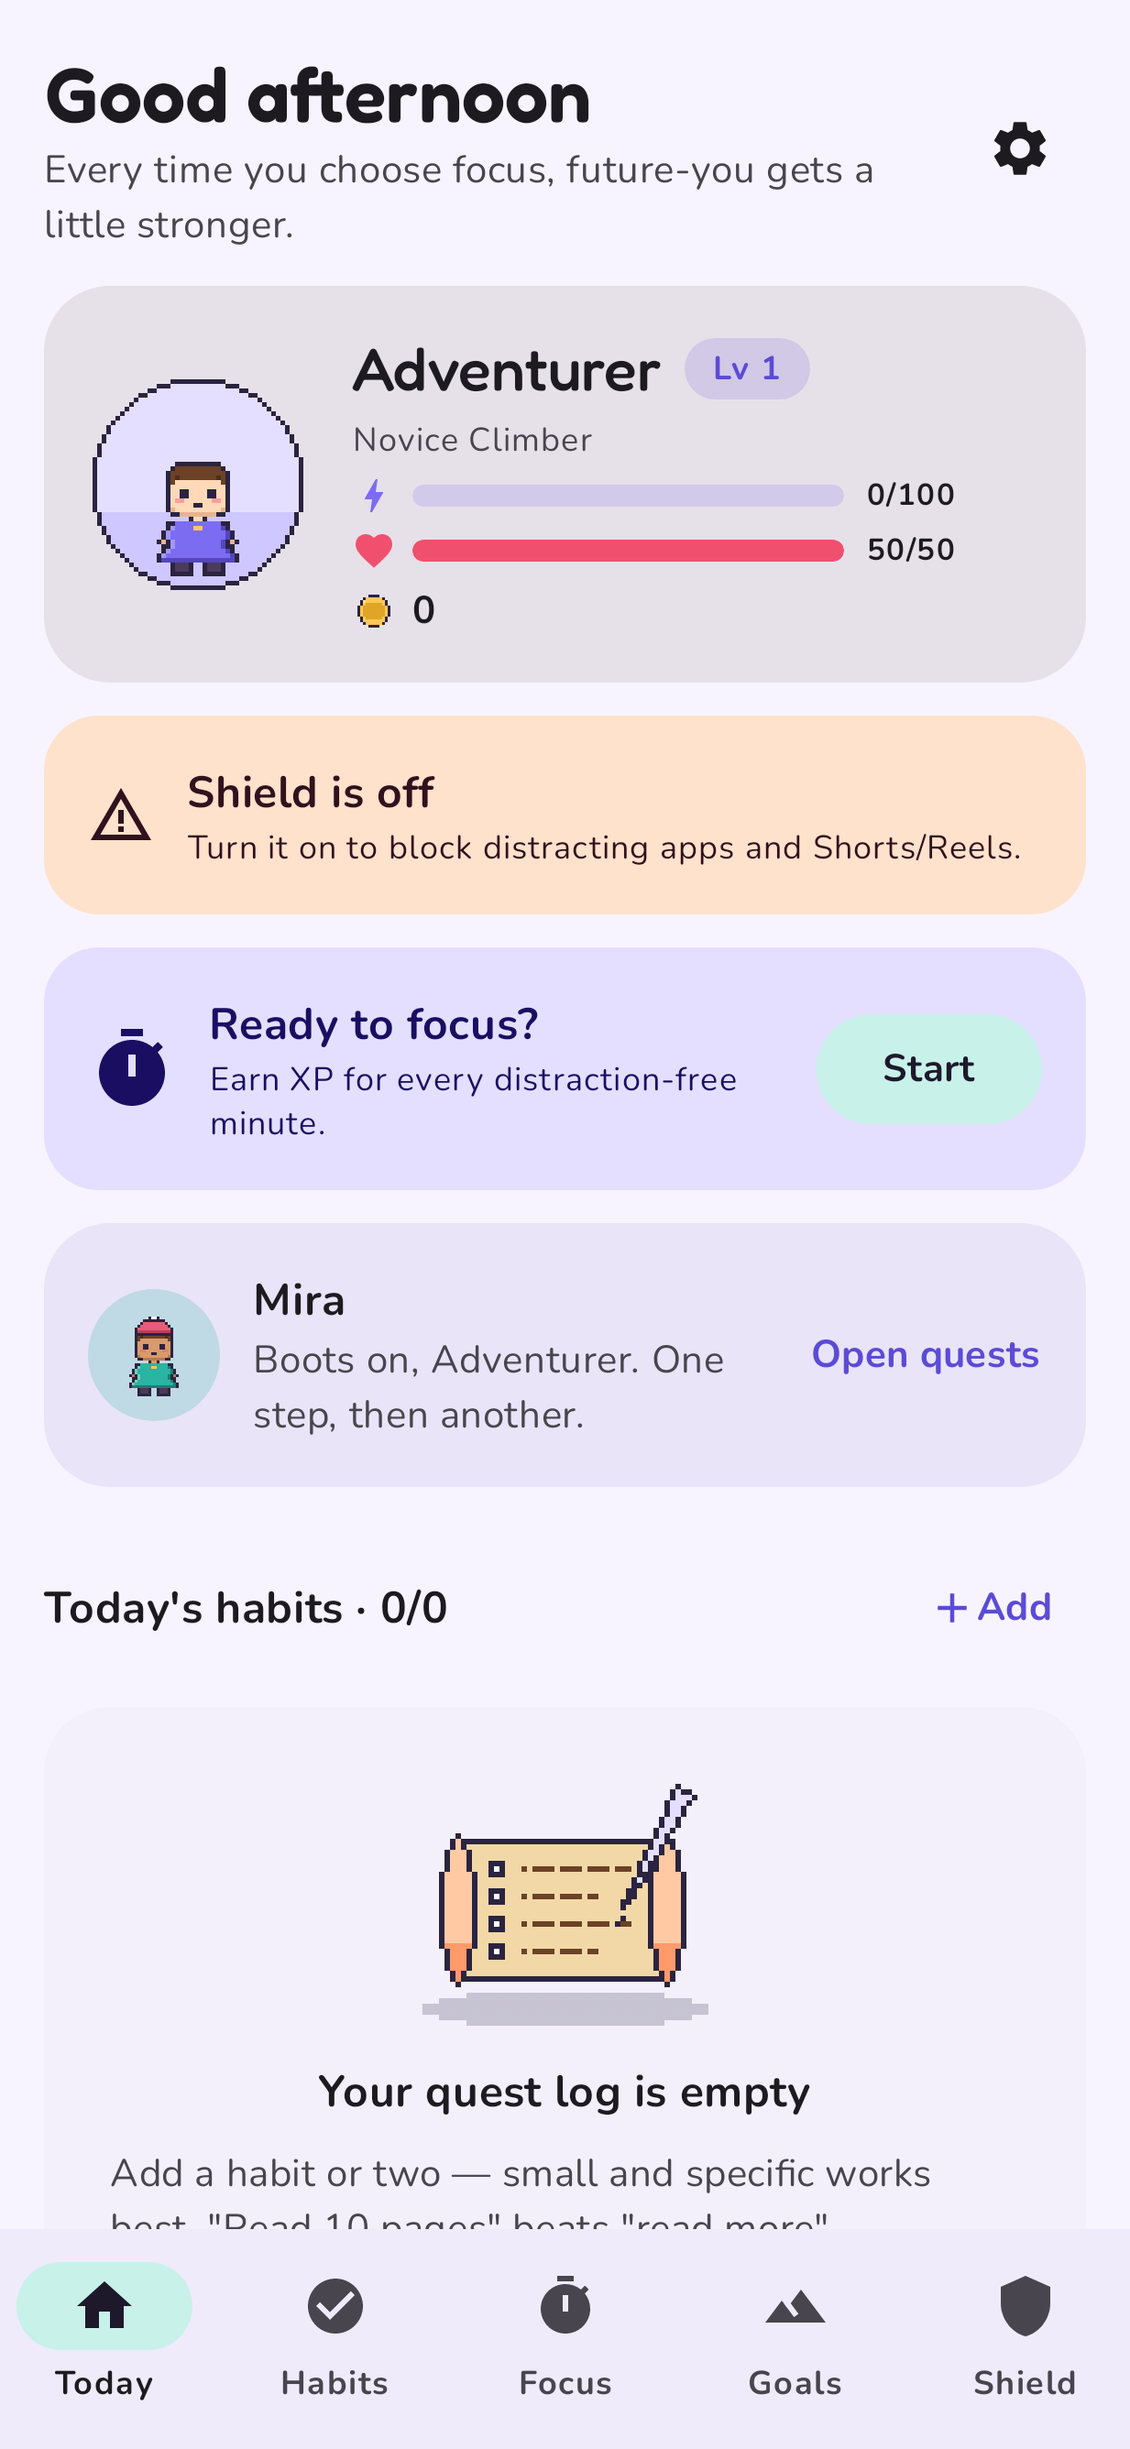
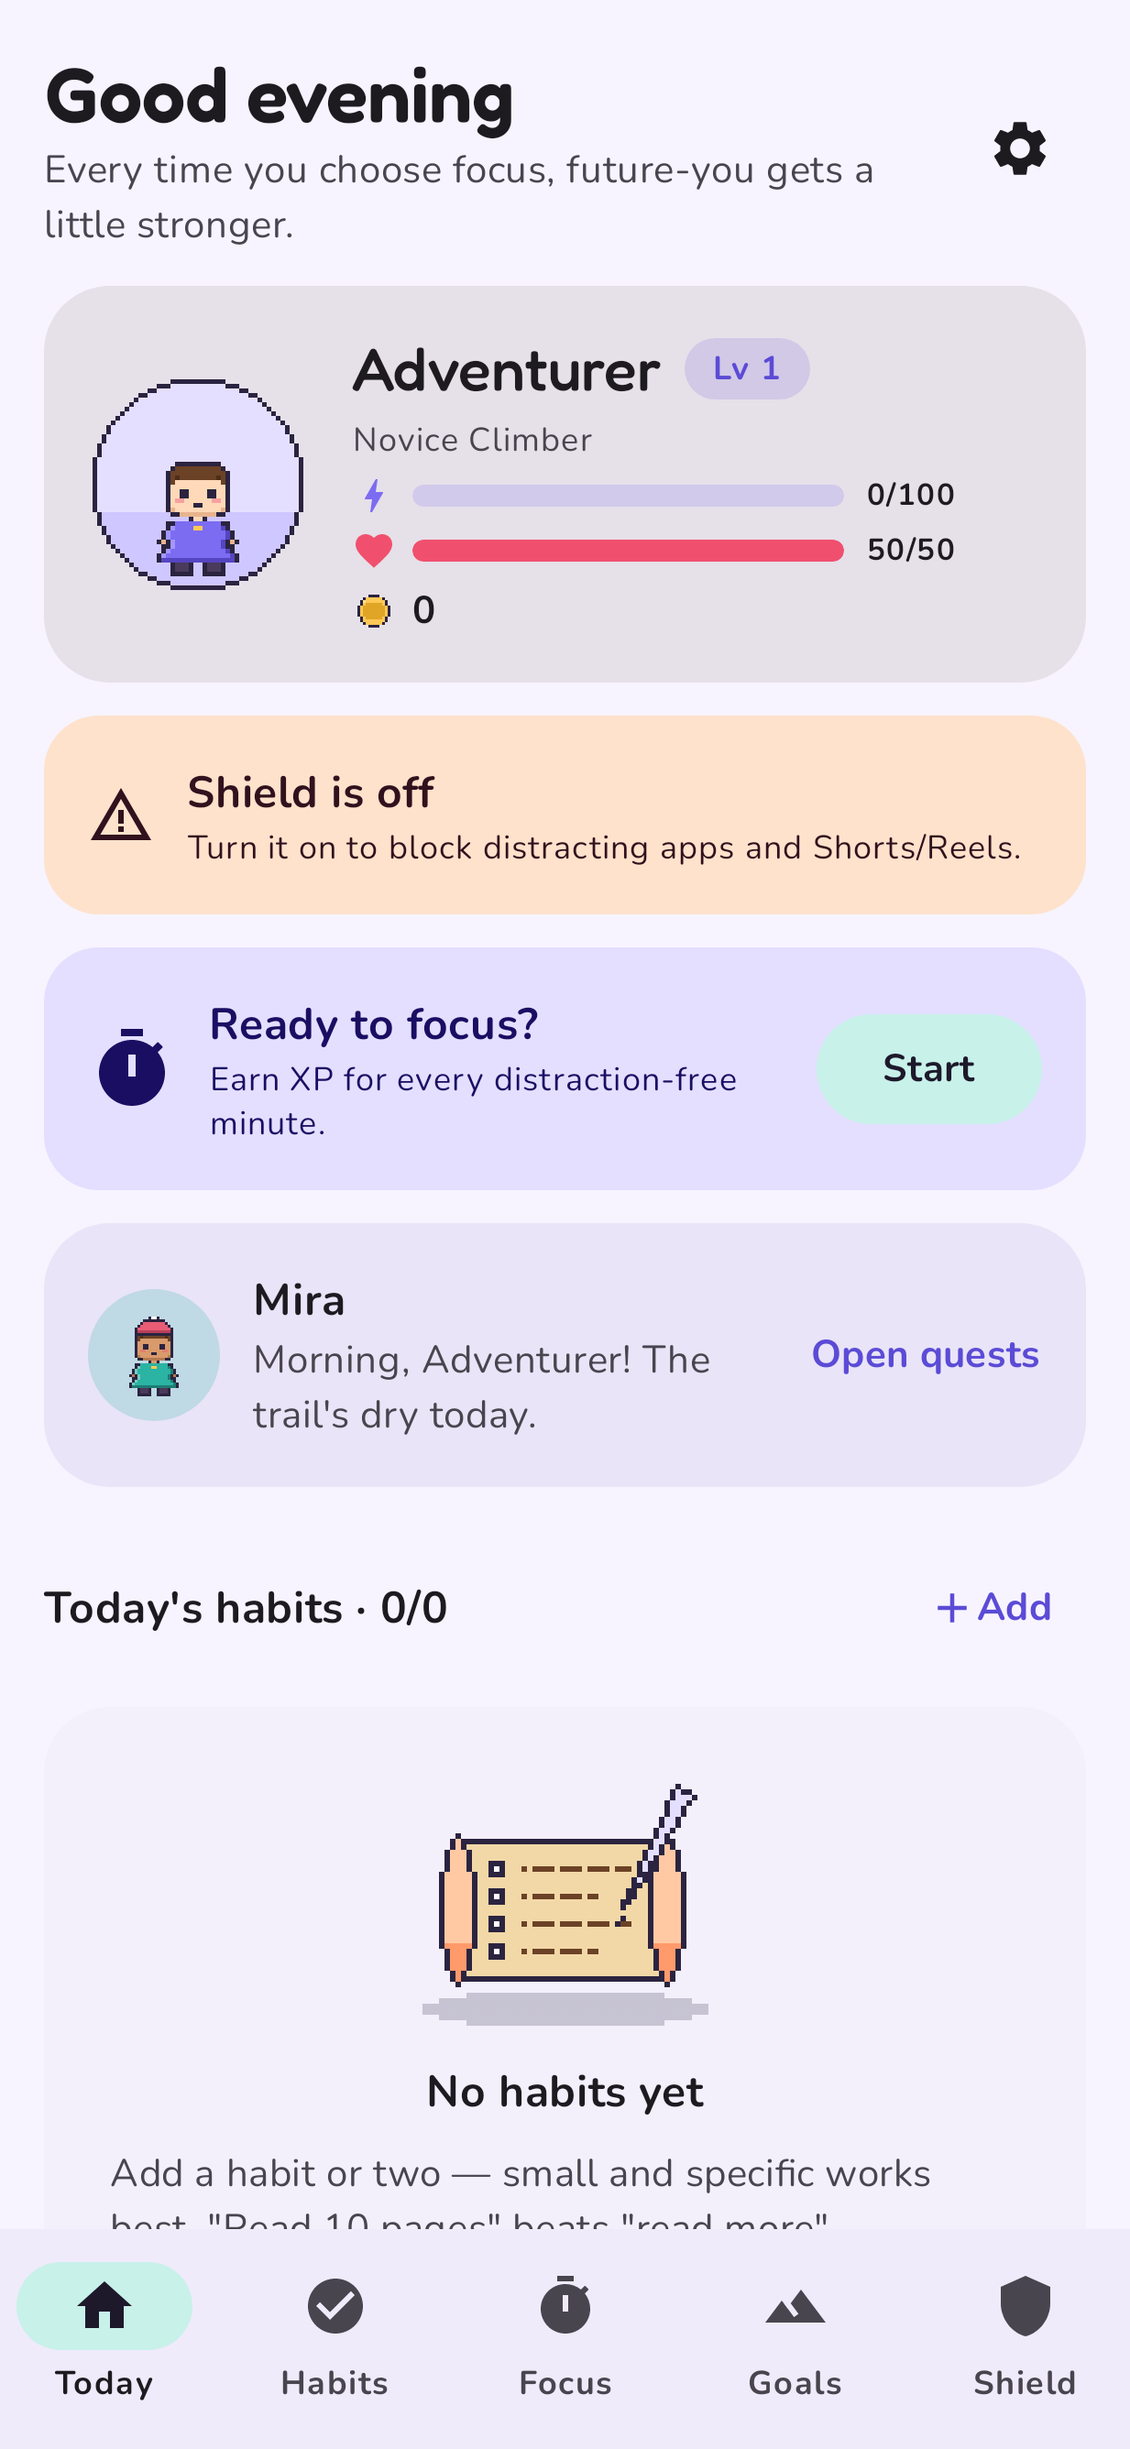
Rename the old habit "quests" to starter habits
"Quest" now only means story quest lines. content.json's quests list becomes
starterHabits (QuestDef -> StarterHabitDef), the editor tab and schema follow,
and habit wording in the UI no longer says quest.

Claude-Session: https://claude.ai/code/session_01Bt5NPUokkk5M5bc1iebKE9

diff --git a/tools/content-editor/index.html b/tools/content-editor/index.html
@@ -231,20 +231,20 @@ const TABS = {
     template: () => ({ id: uniqueId("new_enemy"), name: "New enemy", description: "", hp: 150, strength: 3, color: "#F06A4D", shape: "slime",
       sprite: null, dialogue: { appear: ["..."], hit: ["..."], defeat: ["..."] } }),
   },
-  quests: {
-    label: "Starter habits", key: "quests",
+  starterHabits: {
+    label: "Starter habits", key: "starterHabits",
     title: x => x.title, sub: x => `${x.kind ?? "BUILD"} · ${x.frequency ?? "DAILY"}${x.starter === false ? "" : " · starter"}`,
     fields: () => [
       { k: "id", t: "id" }, { k: "title", t: "text" },
-      { k: "icon", t: "enum", options: enumFrom("properties/quests/items/properties/icon") },
+      { k: "icon", t: "enum", options: enumFrom("properties/starterHabits/items/properties/icon") },
       { k: "color", t: "palette" },
-      { k: "kind", t: "enum", options: enumFrom("properties/quests/items/properties/kind") },
-      { k: "difficulty", t: "enum", options: enumFrom("properties/quests/items/properties/difficulty") },
-      { k: "frequency", t: "enum", options: enumFrom("properties/quests/items/properties/frequency") },
+      { k: "kind", t: "enum", options: enumFrom("properties/starterHabits/items/properties/kind") },
+      { k: "difficulty", t: "enum", options: enumFrom("properties/starterHabits/items/properties/difficulty") },
+      { k: "frequency", t: "enum", options: enumFrom("properties/starterHabits/items/properties/frequency") },
       { k: "target", t: "int" },
-      { k: "starter", t: "bool", hint: "Offered on the onboarding starter-quests page." },
+      { k: "starter", t: "bool", hint: "Offered on the onboarding starter-habits page." },
     ],
-    template: () => ({ id: uniqueId("new_quest"), title: "New quest", icon: "Star", color: 0, kind: "BUILD", difficulty: "EASY",
+    template: () => ({ id: uniqueId("new_habit"), title: "New habit", icon: "Star", color: 0, kind: "BUILD", difficulty: "EASY",
       frequency: "DAILY", target: 1, starter: true }),
   },
   titles: {
@@ -276,9 +276,9 @@ function validate() {
     const seen = {};
     content[TABS[t].key].forEach((x, i) => { const v = x[key]; if (v in seen) add(t, i, `duplicate ${key} "${v}"`); seen[v] = i; });
   };
-  dupes("items", "id"); dupes("achievements", "id"); dupes("slots", "id"); dupes("quests", "id"); dupes("titles", "minLevel");
+  dupes("items", "id"); dupes("achievements", "id"); dupes("slots", "id"); dupes("starterHabits", "id"); dupes("titles", "minLevel");
   const idRe = /^[a-z][a-z0-9_]*$/;
-  ["items", "achievements", "slots", "quests"].forEach(t => content[t].forEach((x, i) => { if (!idRe.test(x.id || "")) add(t, i, `id "${x.id}" must be lower_snake_case`); }));
+  ["items", "achievements", "slots", "starterHabits"].forEach(t => content[t].forEach((x, i) => { if (!idRe.test(x.id || "")) add(t, i, `id "${x.id}" must be lower_snake_case`); }));
   const slotIds = new Set(content.slots.map(s => s.id));
   if (content.slots.filter(s => s.kind === "BACKDROP").length !== 1) add("slots", 0, "need exactly one BACKDROP slot");
   const layers = {};
@@ -307,7 +307,7 @@ function validate() {
   const badges = sprites["px_badges"];
   if (badges && Math.floor(badges.width / 24) * Math.floor(badges.height / 24) < content.achievements.length)
     add("achievements", content.achievements.length - 1, "badge atlas is out of date: regenerate art");
-  if (!content.quests.some(q => q.starter !== false)) add("quests", 0, "no starter quests");
+  if (!content.starterHabits.some(q => q.starter !== false)) add("starterHabits", 0, "no starter habits");
   if (!content.titles.some(t => t.minLevel === 1)) add("titles", 0, "need a title for level 1");
   for (const [k, v] of Object.entries(content.messages)) if (!v.length) add("messages", 0, `no "${k}" messages`);
 
@@ -780,7 +780,7 @@ async function renderPreview() {
   } else if (tab === "slots") {
     const items = content.items.filter(i => i.slot === x.id);
     p.replaceChildren(el("p", { textContent: `${items.length} item(s): ${items.map(i => i.name).join(", ") || "none"}` }));
-  } else if (tab === "quests") {
+  } else if (tab === "starterHabits") {
     p.replaceChildren(el("p", {}, el("span", { style: `display:inline-block;width:14px;height:14px;border-radius:50%;background:${PALETTE[x.color ?? 0]};margin-right:6px` }),
       `${x.icon ?? "Star"} · ${x.title}`));
   } else if (tab === "npcs") {

diff --git a/app/src/test/java/org/openfocus/app/core/content/ContentValidationTest.kt b/app/src/test/java/org/openfocus/app/core/content/ContentValidationTest.kt
@@ -43,7 +43,7 @@ class ContentValidationTest {
         assertUnique("slot layers", c.slots.map { it.layer } + 1) // 1 = the hero's body
         assertUnique("item ids", c.items.map { it.id })
         assertUnique("achievement ids", c.achievements.map { it.id })
-        assertUnique("quest ids", c.quests.map { it.id })
+        assertUnique("starter habit ids", c.starterHabits.map { it.id })
         assertUnique("title levels", c.titles.map { it.minLevel })
     }
 
@@ -75,12 +75,12 @@ class ContentValidationTest {
         }
     }
 
-    @Test fun questsTitlesAndMessages() {
-        c.quests.forEach { q ->
+    @Test fun starterHabitsTitlesAndMessages() {
+        c.starterHabits.forEach { q ->
             assertTrue("${q.id}: unknown icon '${q.icon}'", q.icon in AppIcons.habitChoices.keys)
             assertTrue("${q.id}: colour index 0..7", q.color in 0..7)
         }
-        assertTrue("some starter quests", c.quests.any { it.starter })
+        assertTrue("some starter habits", c.starterHabits.any { it.starter })
         assertTrue("a title for level 1", c.titles.any { it.minLevel == 1 })
         with(c.messages) { listOf(general, resist, blocked, shorts, comeback).forEach { assertTrue(it.isNotEmpty()) } }
     }
@@ -164,7 +164,7 @@ class ContentValidationTest {
     @Test fun schemaEnumsMatchTheCode() {
         assertEquals(GameStats.STATS, enumOf("properties/achievements/items/properties/stat"))
         assertEquals(SlotKind.entries.map { it.name }, enumOf("properties/slots/items/properties/kind"))
-        val quest = "properties/quests/items/properties"
+        val quest = "properties/starterHabits/items/properties"
         assertEquals(AppIcons.habitChoices.keys.toList(), enumOf("$quest/icon"))
         assertEquals(HabitKind.entries.map { it.name }, enumOf("$quest/kind"))
         assertEquals(Difficulty.entries.map { it.name }, enumOf("$quest/difficulty"))

diff --git a/app/src/main/java/org/openfocus/app/ui/onboarding/OnboardingScreen.kt b/app/src/main/java/org/openfocus/app/ui/onboarding/OnboardingScreen.kt
@@ -54,7 +54,7 @@ import org.openfocus.app.ui.pixel.SpriteCatalog
 import org.openfocus.app.ui.components.SkinTonePicker
 import org.openfocus.app.ui.components.appContainer
 
-private val starters get() = GameContent.current.quests.filter { it.starter }
+private val starters get() = GameContent.current.starterHabits.filter { it.starter }
 
 @OptIn(ExperimentalLayoutApi::class)
 @Composable
@@ -88,8 +88,8 @@ fun OnboardingScreen() {
                     Button(onClick = { page = 1 }, modifier = Modifier.fillMaxWidth()) { Text(stringResource(R.string.next)) }
                 }
                 1 -> {
-                    PixelSprite(SpriteCatalog.empty, SpriteCatalog.EMPTY_QUESTS, Modifier.size(width = 192.dp, height = 144.dp), animate = false)
-                    Text(stringResource(R.string.pick_a_few_starter_quests), style = MaterialTheme.typography.headlineSmall, textAlign = TextAlign.Center)
+                    PixelSprite(SpriteCatalog.empty, SpriteCatalog.EMPTY_TODAY, Modifier.size(width = 192.dp, height = 144.dp), animate = false)
+                    Text(stringResource(R.string.pick_a_few_starter_habits), style = MaterialTheme.typography.headlineSmall, textAlign = TextAlign.Center)
                     Text(stringResource(R.string.start_small_you_can_edit_or), textAlign = TextAlign.Center)
                     FlowRow(horizontalArrangement = Arrangement.spacedBy(8.dp), verticalArrangement = Arrangement.spacedBy(4.dp)) {
                         starters.forEachIndexed { i, s ->

diff --git a/app/src/main/java/org/openfocus/app/core/content/GameContent.kt b/app/src/main/java/org/openfocus/app/core/content/GameContent.kt
@@ -13,7 +13,7 @@ import org.openfocus.app.data.db.HabitFrequency
 import org.openfocus.app.data.db.HabitKind
 
 /*
- * All game content (cosmetics, achievements, starter quests, titles, messages) lives in
+ * All game content (cosmetics, achievements, starter habits, quest lines, titles, messages) lives in
  * src/main/resources/content/content.json and is edited with the developer tool in
  * tools/content-editor. Nothing about specific items is hard-coded in Kotlin.
  */
@@ -77,7 +77,7 @@ data class AchievementDef(
 )
 
 @Serializable
-data class QuestDef(
+data class StarterHabitDef(
     val id: String,
     val title: String,
     val icon: String = "Star",
@@ -86,7 +86,7 @@ data class QuestDef(
     val difficulty: Difficulty = Difficulty.EASY,
     val frequency: HabitFrequency = HabitFrequency.DAILY,
     val target: Int = 1,
-    /** Offered on the onboarding "pick a few starter quests" page. */
+    /** Offered on the onboarding "pick a few starter habits" page. */
     val starter: Boolean = true,
 )
 
@@ -226,7 +226,7 @@ data class GameContentData(
     val slots: List<SlotDef>,
     val items: List<ItemDef>,
     val achievements: List<AchievementDef>,
-    val quests: List<QuestDef>,
+    val starterHabits: List<StarterHabitDef>,
     val titles: List<TitleDef>,
     val messages: MessagesDef,
     val questLines: List<QuestLineDef> = emptyList(),

diff --git a/app/src/main/java/org/openfocus/app/ui/pixel/SpriteCatalog.kt b/app/src/main/java/org/openfocus/app/ui/pixel/SpriteCatalog.kt
@@ -159,12 +159,12 @@ object SpriteCatalog {
     val shield = SpriteSheet(R.drawable.px_shield, 48, 48, mapOf(IDLE to SpriteAnim(0, 4, 1f)))
 
     /** 64x48 empty-state scenes. MUST match EMPTY_SCENES order in build_placeholders.py. */
-    const val EMPTY_QUESTS = "quests"
+    const val EMPTY_TODAY = "today"
     const val EMPTY_HABITS = "habits"
     const val EMPTY_GOALS = "goals"
     val empty = SpriteSheet(
         R.drawable.px_empty, 64, 48,
-        listOf(EMPTY_QUESTS, EMPTY_HABITS, EMPTY_GOALS).mapIndexed { i, n -> n to SpriteAnim(0, 1, col = i) }.toMap(),
+        listOf(EMPTY_TODAY, EMPTY_HABITS, EMPTY_GOALS).mapIndexed { i, n -> n to SpriteAnim(0, 1, col = i) }.toMap(),
     )
 
     val coin = SpriteSheet(R.drawable.px_coin, 16, 16, mapOf("spin" to SpriteAnim(0, 6, 8f)))

diff --git a/app/src/test/java/org/openfocus/app/data/QuestRepositoryTest.kt b/app/src/test/java/org/openfocus/app/data/QuestRepositoryTest.kt
@@ -30,7 +30,7 @@ import kotlin.random.Random
 class QuestRepositoryTest {
     private val content = GameContent.parse(
         """
-        {"slots":[],"items":[{"id":"prize","name":"Prize","slot":"hat","price":0}],"achievements":[],"quests":[],
+        {"slots":[],"items":[{"id":"prize","name":"Prize","slot":"hat","price":0}],"achievements":[],"starterHabits":[],
          "titles":[{"minLevel":1,"title":"T"}],"messages":{"general":["g"],"resist":["r"],"blocked":["b"],"shorts":["s"],"comeback":["c"]},
          "npcs":[{"id":"guide","name":"Guide","dialogue":{"greeting":["Hi {hero}"]}}],
          "enemies":[{"id":"blob","name":"Blob","hp":20,"strength":5,"dialogue":{"appear":["Rawr"],"hit":["Gotcha"],"defeat":["Bleh"]}}],

diff --git a/app/src/main/java/org/openfocus/app/ui/habits/HabitEditorScreen.kt b/app/src/main/java/org/openfocus/app/ui/habits/HabitEditorScreen.kt
@@ -139,7 +139,7 @@ fun HabitEditorScreen(nav: NavController, habitId: String?) {
                 }
             }
 
-            Text(stringResource(R.string.difficulty_bigger_rewards_for_harder_quests), style = MaterialTheme.typography.titleSmall)
+            Text(stringResource(R.string.difficulty_bigger_rewards_for_harder_habits), style = MaterialTheme.typography.titleSmall)
             FlowRow(horizontalArrangement = Arrangement.spacedBy(6.dp)) {
                 Difficulty.entries.forEach { d -> FilterChip(selected = difficulty == d, onClick = { difficulty = d }, label = { Text(d.label) }) }
             }

diff --git a/app/src/main/java/org/openfocus/app/ui/habits/HabitsScreen.kt b/app/src/main/java/org/openfocus/app/ui/habits/HabitsScreen.kt
@@ -42,8 +42,8 @@ fun HabitsScreen(nav: NavController) {
             val list = habits ?: return@LazyColumn
             if (list.isEmpty()) {
                 item {
-                    EmptyState(Icons.Filled.CheckCircle, "No habits yet",
-                        "Habits are small daily quests. Build good ones for XP and coins, track bad ones to break them.",
+                    EmptyState(Icons.Filled.CheckCircle, stringResource(R.string.no_habits_yet),
+                        stringResource(R.string.habits_intro),
                         scene = SpriteCatalog.EMPTY_HABITS)
                 }
             }

diff --git a/app/src/main/java/org/openfocus/app/ui/today/TodayScreen.kt b/app/src/main/java/org/openfocus/app/ui/today/TodayScreen.kt
@@ -125,9 +125,9 @@ fun TodayScreen(nav: NavController) {
         }
         if (habits != null && due.isEmpty() && breakHabits.isEmpty()) item {
             EmptyState(
-                Icons.Filled.ShieldMoon, "Your quest log is empty",
+                Icons.Filled.ShieldMoon, stringResource(R.string.no_habits_yet),
                 "Add a habit or two — small and specific works best. \"Read 10 pages\" beats \"read more\".",
-                scene = SpriteCatalog.EMPTY_QUESTS,
+                scene = SpriteCatalog.EMPTY_TODAY,
             )
         }
         items(due, key = { it.habit.id }) { s ->

diff --git a/art/tools/build_placeholders.py b/art/tools/build_placeholders.py
@@ -634,7 +634,7 @@ def shield_frames():
 # --------------------------------------------------------------------------------------------
 # Empty-state scenes, 64x48 each, transparent background. Atlas columns: quests, habits, goals.
 # --------------------------------------------------------------------------------------------
-EMPTY_SCENES = ["quests", "habits", "goals"]  # MUST match SpriteCatalog.empty
+EMPTY_SCENES = ["today", "habits", "goals"]  # MUST match SpriteCatalog.empty
 
 
 def empty_quests():

diff --git a/art/README.md b/art/README.md
@@ -70,7 +70,7 @@ To add an achievement, use the [content editor](../tools/content-editor/README.m
 | Sheet | Frame | Use |
 |---|---|---|
 | `px_shield.png` | 48×48 × 4 @ 1 fps | Block screen and onboarding; the glow cycle lasts one 4 s breath |
-| `px_empty.png` | 64×48 atlas: `quests`, `habits`, `goals` | `EmptyState(scene = …)`; order must match `EMPTY_SCENES` |
+| `px_empty.png` | 64×48 atlas: `today`, `habits`, `goals` | `EmptyState(scene = …)`; order must match `EMPTY_SCENES` |
 
 ### Launcher icon
 The icon is drawn on a 54×54 canvas and exported at ×2/×3/×4/×6/×8 to `mipmap-*/ic_launcher_fg.png`, with a white `ic_launcher_mono.png` for Android 13+ themed icons. Keep content inside the central 36×36 (the adaptive-icon safe zone); the background is `@color/launcher_background`. `art/export/ic_launcher_store.png` (486 px, 54×9) is ready for store listings; pad it to 512 if a store requires that size. The notification icon is still the vector `drawable/ic_launcher_foreground.xml`.
@@ -104,6 +104,6 @@ Every file must be listed in `CREDITS.md`.
 - [x] Phase 2: 3 skin tones (stored in the profile, DB v2), pixel backdrops, celebrate animation. Placeholder quality: hand-drawn replacements welcome.
 - [x] Phase 3: goal mountain scene: one 160×112 sheet per goal colour (climbing / summit rows), tents (unlit / lit flicker), climber, flag (red / gold)
 - [x] Phase 4: 20 achievement medals (bronze / silver / gold), locked silhouettes, level-up sparkle burst, coin in reward snackbars
-- [x] Phase 5: breathing block-screen shield, empty-state scenes (quests / habits / goals), onboarding art, pixel launcher icon (+ monochrome + 486px store export)
+- [x] Phase 5: breathing block-screen shield, empty-state scenes (today / habits / goals), onboarding art, pixel launcher icon (+ monochrome + 486px store export)
 - [x] Phase 6: dark-theme pass: night versions of every goal scene and of the default backdrop, translucent ground shadows, dark screenshots in `docs/screenshots/dark/`, a test that every loop divides the 12 s clock
 - [ ] Next: replace the placeholders with hand-drawn art and review on real devices (contributors welcome!)

diff --git a/ARCHITECTURE.md b/ARCHITECTURE.md
@@ -5,7 +5,7 @@ OpenFocus is a single-module Kotlin app built with Jetpack Compose, Material 3, 
 ```
 org.openfocus.app
 ├── core/        Pure Kotlin logic with no Android dependencies. Unit-tested.
-│   ├── content/         GameContent: loads content.json (slots, items, achievements, quests, titles, messages)
+│   ├── content/         GameContent: loads content.json (slots, items, achievements, starter habits, quest lines, NPCs, enemies, titles, messages)
 │   ├── GameRules        XP, coin, HP, level curve and unlock prices (all the tuning lives here)
 │   ├── HabitSchedule    whether a habit is due or satisfied, its streak, and misses
 │   ├── Achievements     declarative achievement list evaluated against GameStats
